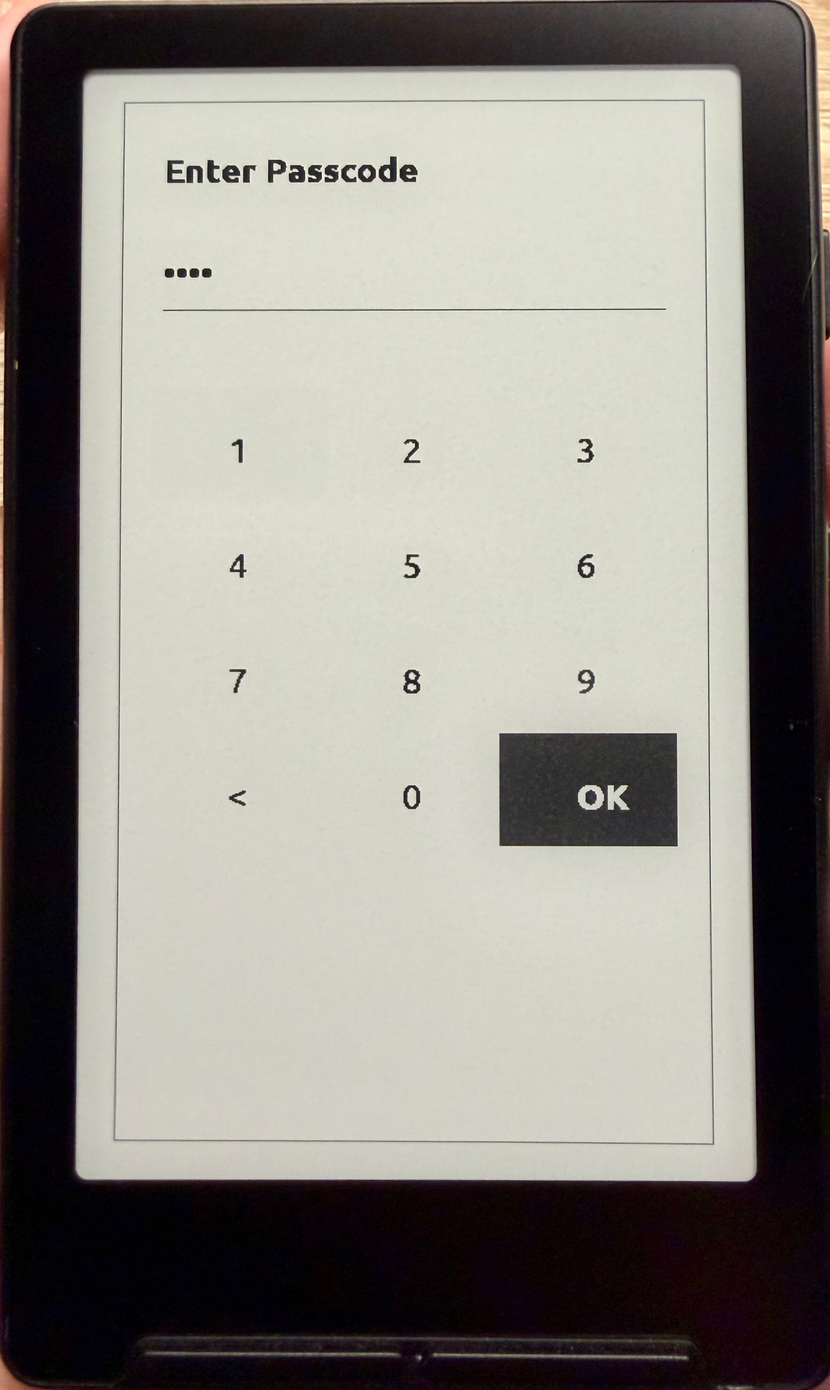
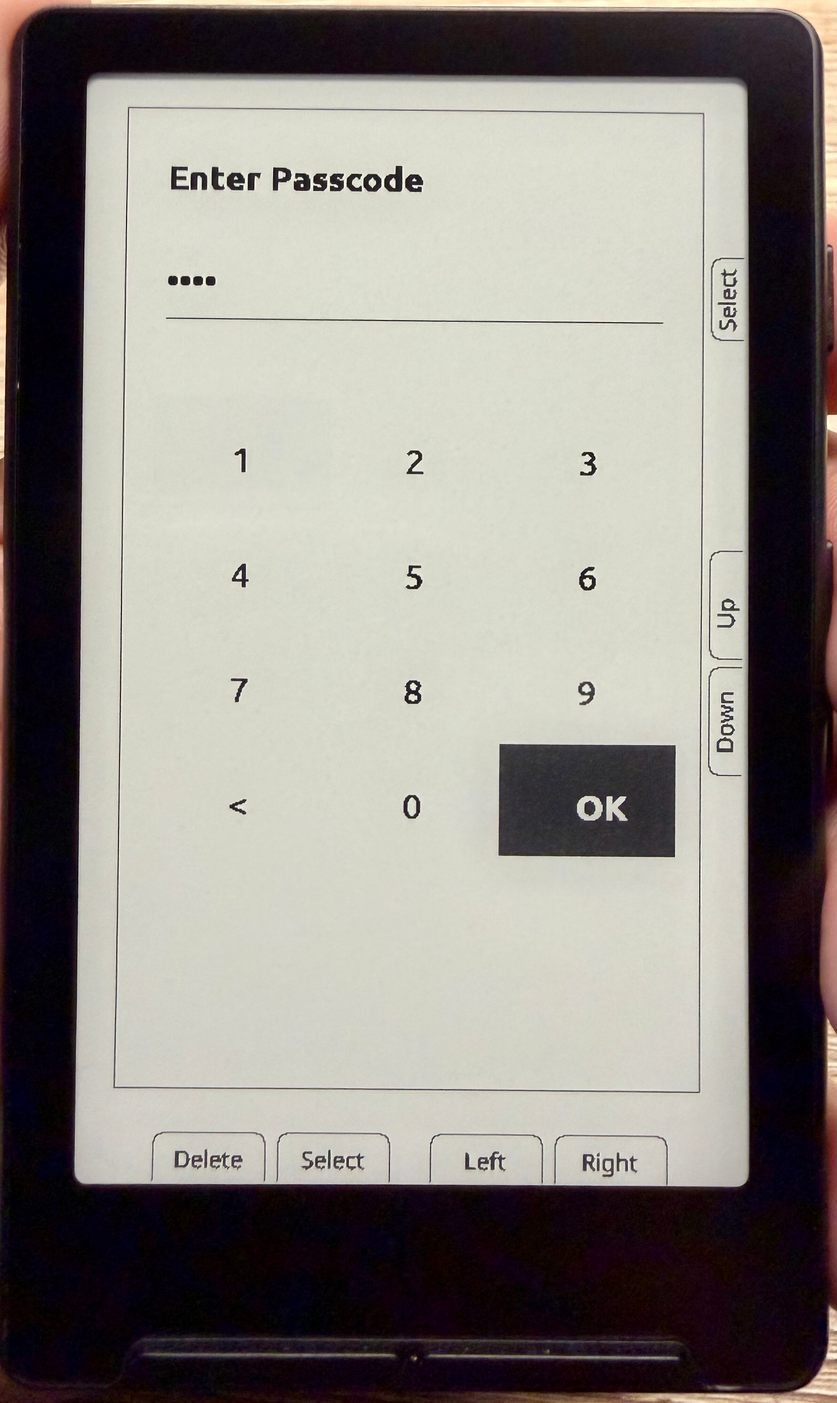
feat(lockscreen): add button hint labels for all physical controls

diff --git a/plugins/lockscreen/LockscreenActivity.cpp b/plugins/lockscreen/LockscreenActivity.cpp
@@ -149,8 +149,9 @@ void LockscreenActivity::render(RenderLock&&) {
 
     const int cardX = CARD_MARGIN;
     const int cardY = CARD_MARGIN;
-    const int cardW = screenW - 2 * CARD_MARGIN;
-    const int cardH = screenH - 2 * CARD_MARGIN;
+    const auto& metrics = UITheme::getInstance().getMetrics();
+    const int cardW = screenW - 2 * CARD_MARGIN - 5;
+    const int cardH = screenH - 2 * CARD_MARGIN - metrics.buttonHintsHeight;
 
     const int titleY     = cardY + 36;
     const int inputY     = cardY + 110;
@@ -175,6 +176,19 @@ void LockscreenActivity::render(RenderLock&&) {
         char msg[48];
         snprintf(msg, sizeof(msg), "Incorrect PIN. %d attempt(s) remaining.", MAX_ATTEMPTS - attempts_);
         renderer.drawCenteredText(UI_10_FONT_ID, cardY + cardH - 28, msg);
+    }
+
+    GUI.drawButtonHints(renderer, "Delete", "Select", "Left", "Right");
+    GUI.drawSideButtonHints(renderer, "Up", "Down");
+
+    {
+        constexpr int buttonWidth  = 30;
+        constexpr int buttonHeight = 60;
+        constexpr int powerButtonY = 135;
+        const int x = screenW - buttonWidth;
+        renderer.drawRoundedRect(x, powerButtonY, buttonWidth, buttonHeight, 1, 6, true, false, true, false, true);
+        const int textWidth = renderer.getTextWidth(SMALL_FONT_ID, "Select");
+        renderer.drawTextRotated90CW(SMALL_FONT_ID, x, powerButtonY + (buttonHeight + textWidth) / 2, "Select");
     }
 
     renderer.displayBuffer();
